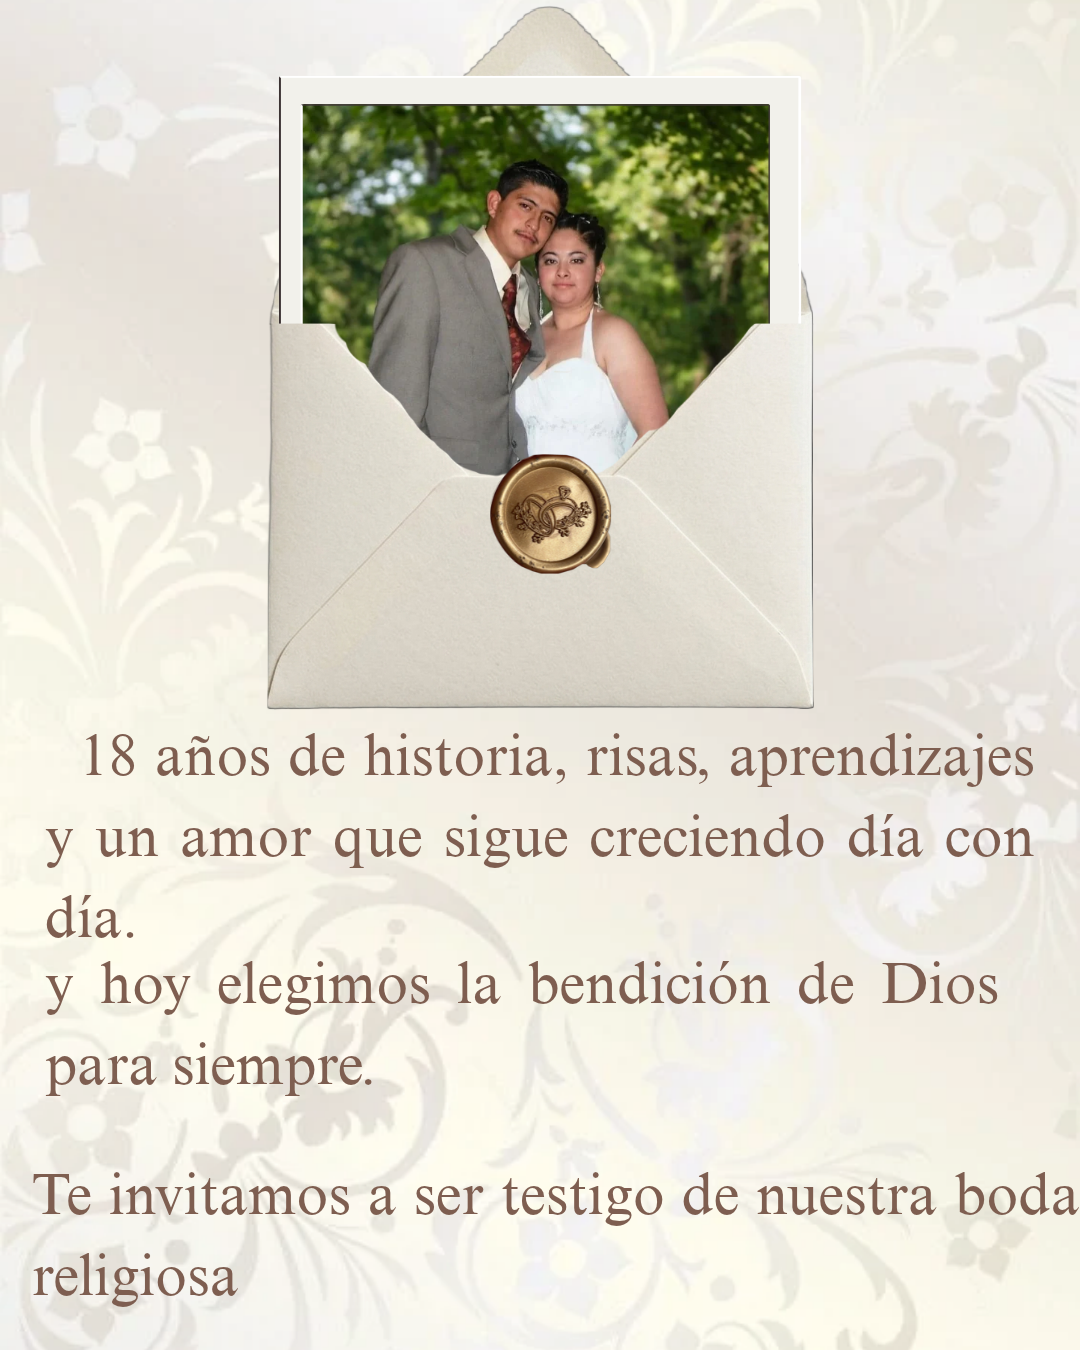
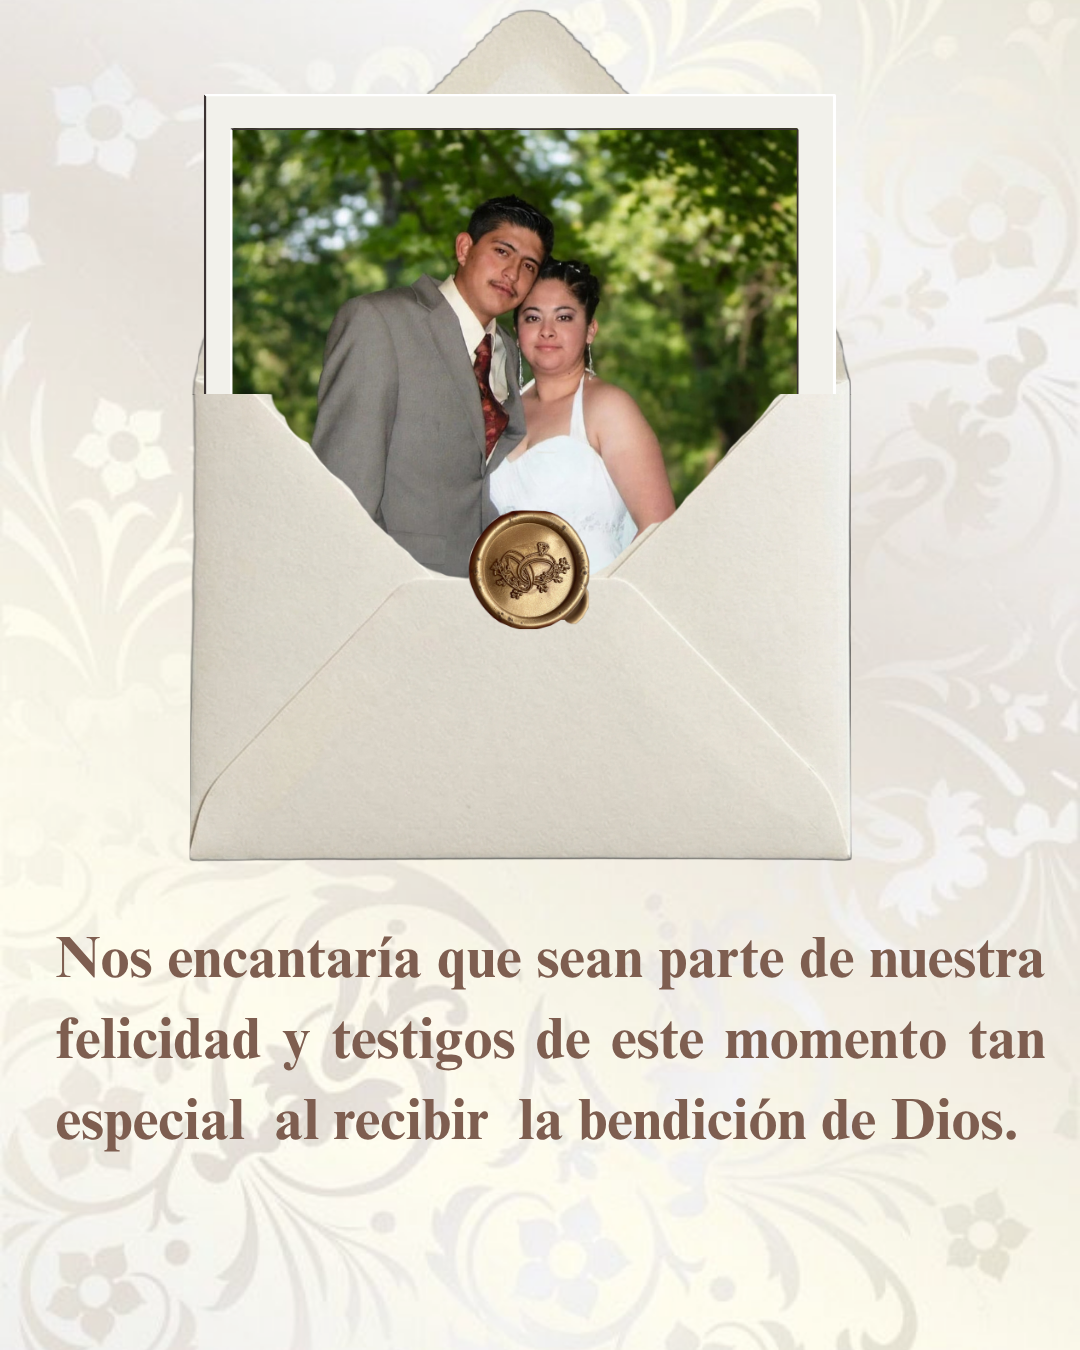
Cambios de la primera revisión

diff --git a/index.html b/index.html
@@ -121,16 +121,14 @@ GALERÍA DE FOTOS
 
     <div class="titulo-seccion">
 
-        <span>
-            Mis recuerdos
-        </span>
+      
 
         <h2>
-            Momentos Especiales
+            Nuestros Recuerdos
         </h2>
 
         <p>
-            Una pequeña colección de momentos que forman parte de mi historia.
+            Una pequeña colección de momentos que forman parte de nuestra historia
         </p>
 
     </div>
@@ -442,130 +440,18 @@ PADRES Y PADRINOS
     <div class="titulo-seccion">
 
         <span>
-            Con mucho amor
+            Con  la bendición de
         </span>
 
         <h2>
-            Nuestros Padres y Padrinos
+            Nuestros Padres 
         </h2>
 
-      
-
     </div>
-
-
-
-    <div class="familia-contenedor">
-
-
-        <!-- PADRES -->
-
-        <div class="familia-card">
-
-
-            
-
-
-            <h3>
-                Novia
-            </h3>
-
-
-            <div class="persona">
-
-
-
-                <h4>
-                    
-
-Irma López García 
-
-                </h4>
-
-                <p>
-                    Mamá
-                </p>
-
-            </div>
-
-
-            <div class="separador"></div>
-
-
-            <div class="persona">
-
-               
-
-                <h4>
-                      Armando Romero López 
-                </h4>
-
-                <p>
-                    Papá
-                </p>
-
-            </div>
-
-
-        </div>
 
 <section class="seccion-imagen">
     <img src="novia.png" alt="Descripción de la imagen">
 </section>
- <!-- PADRES -->
-
-        <div class="familia-card">
-
-            <h3>
-                Novio 
-            </h3>
-
-
-            <div class="persona">
-
-              
-
-                <h4>
-                  
-
-Clamentina Gayosso Hernández
-
-                </h4>
-
-                <p>
-                    Mamá
-                </p>
-
-            </div>
-
-
-            <div class="separador"></div>
-
-
-            <div class="persona">
-
-              
-
-                <h4>
-                    Ángel Martínez España ✝
-                </h4>
-
-                <p>
-                    Papá
-                </p>
-
-            </div>
-
-
-        </div>
-
-       
-
-
-
-    </div>
-
-
 <section class="seccion-imagen">
     <img src="novio.png" alt="Descripción de la imagen">
 </section>
@@ -575,65 +461,28 @@ Clamentina Gayosso Hernández
 </section>
 
 
-</section>
 
 
 
 
+    <div class="titulo-seccion">
 
- <!-- PADRINOS -->
-<section class="familia">
- <div class="familia-contenedor">
-        <div class="familia-card">
+        <span>
+            Acompañados de
+        </span>
 
+        <h2>
+            Nuestros Padrinos
+        </h2>
 
-            
-
-            <h3>
-                Padrinos de Velación
-            </h3>
-
-
-            <div class="persona">
+    </div>
 
 
-                <h4>
-                  
-               Concepción González López 
-                </h4>
-
-                <p>
-                    Madrina
-                </p>
-
-            </div>
-
-
-            <div class="separador"></div>
-
-
-            <div class="persona">
-
-                
-
-                <h4>
-                     Norberto Cordero Flores 
-                </h4>
-
-                <p>
-                    Padrino
-                </p>
-
-            </div>
-
-
-        </div>
-        </div>
-        </section>
+    
 <section class="seccion-imagen">
     <img src="padrinos.png" alt="Descripción de la imagen">
 </section>
-
+</section>
 <!--======================================================
 MESA DE REGALOS
 ======================================================
@@ -885,7 +734,7 @@ CIERRE FINAL
 
         <span>
 
-            Gracias por ser parte de mi historia
+            Gracias por ser parte de nuestra historia
 
         </span>
 
@@ -897,11 +746,9 @@ CIERRE FINAL
         </h2>
 
 
-        <h3>
-
-            Carmen & Daniel 
-
-        </h3>
+     <section class="seccion-imagen">
+    <img src="final.png" alt="Descripción de la imagen">
+</section>
 
 
         <p>
@@ -912,7 +759,7 @@ CIERRE FINAL
             <br><br>
 
             Esperamos contar con tu presencia<br>
-            para vivir juntos una noche inolvidable.
+            para vivir juntos una  día inolvidable.
 
         </p>
 
